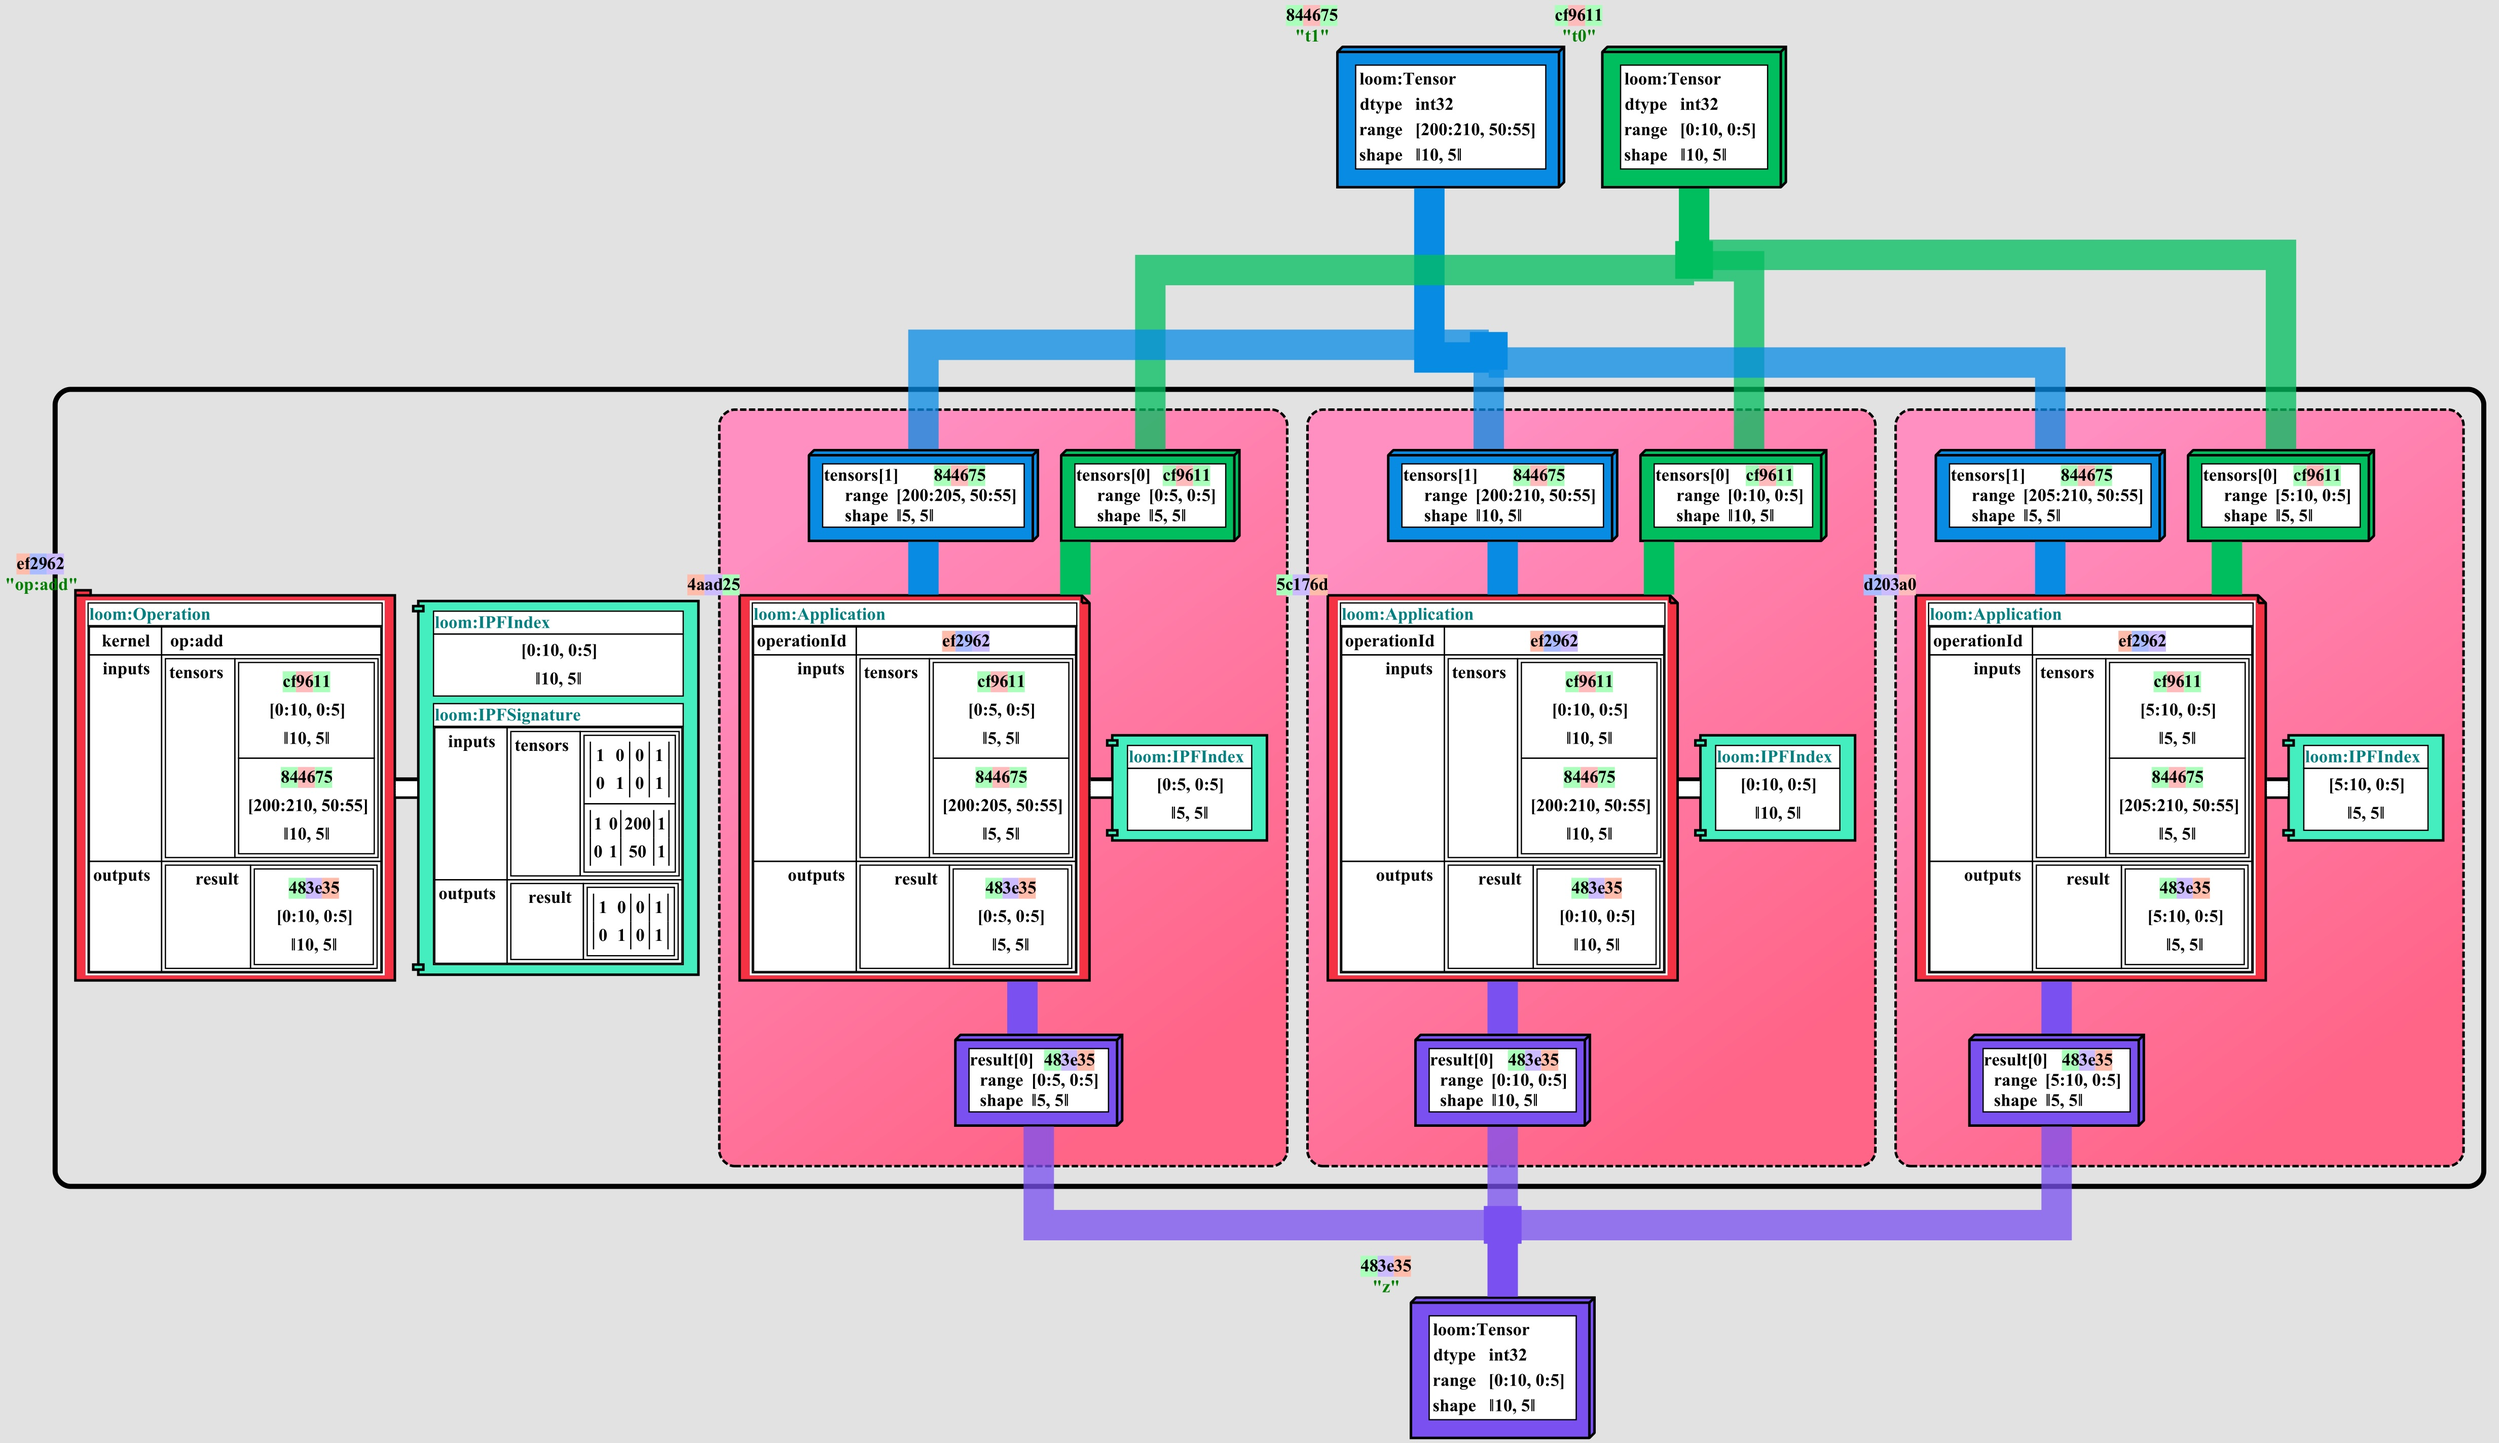
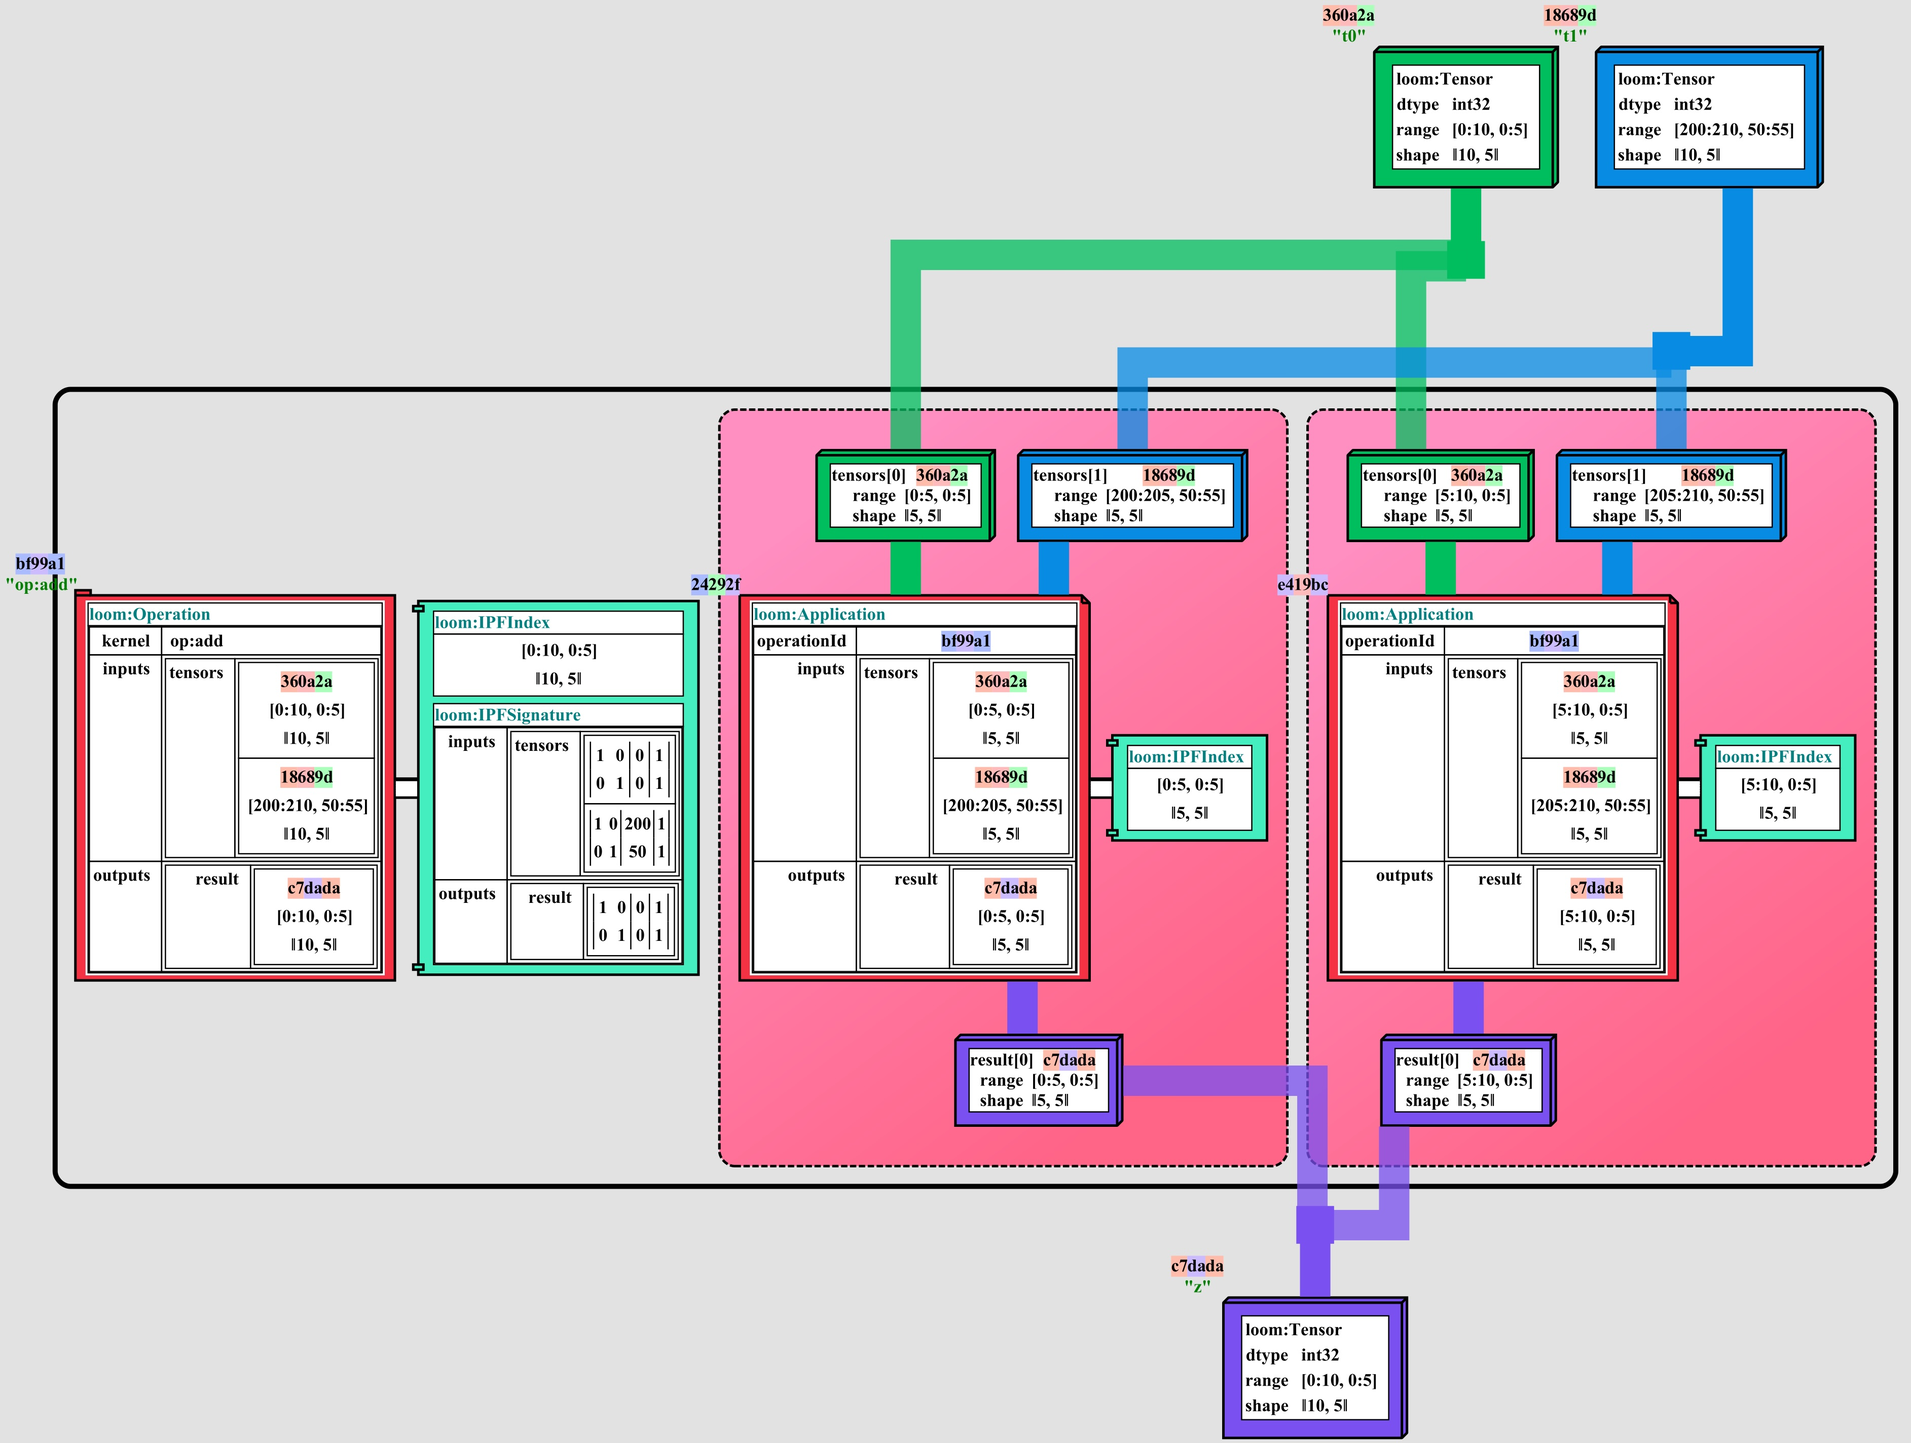
fix example bug.

diff --git a/tensortapestry-weft/src/test/java/org/tensortapestry/ScratchTest.java b/tensortapestry-weft/src/test/java/org/tensortapestry/ScratchTest.java
@@ -1,6 +1,7 @@
 package org.tensortapestry;
 
 import java.util.List;
+
 import org.junit.jupiter.api.Test;
 import org.tensortapestry.common.testing.CommonAssertions;
 import org.tensortapestry.loom.graph.dialects.tensorops.ApplicationExpressionDialect;
@@ -24,6 +25,8 @@ public class ScratchTest implements CommonAssertions {
 
     var op = CommonMetaKernels.ADD.on(graph).input("tensors", t0, t1).apply();
 
+    op.getApplicationNodes().stream().toList().forEach(graph::removeNode);
+
     var z = op.getResult().withLabel("z");
 
     OperationUtils.createIpfShards(
@@ -35,6 +38,8 @@ public class ScratchTest implements CommonAssertions {
     );
 
     var img = ApplicationExpressionDialect.toImage(graph);
+
+    graph.validate();
 
     System.out.println(graph.toPrettyJsonString());
   }

diff --git a/docs/dialects/ApplicationExpressionDialect.md b/docs/dialects/ApplicationExpressionDialect.md
@@ -72,46 +72,10 @@ must be total over the output tensor range.
 <summary>LoomGraph JSON</summary>
 
 ```json
-{
-  "id" : "a0dddda0-34e6-436c-a210-6b25705b271b",
+
+  "id" : "bdc87aaf-3716-419d-abfb-fe6e21bd6892",
   "nodes" : [ {
-    "id" : "aae819bc-7a32-43ba-a1b8-6959f0238ed2",
-    "type" : "http://tensortapestry.org/schemas/loom/2024-01/node_types.jsd#/nodes/Application",
-    "body" : {
-      "operationId" : "476a1cce-60f9-4919-a6b5-cb7e4a627197",
-      "inputs" : {
-        "tensors" : [ {
-          "tensorId" : "3009968e-ded2-412b-b35c-9b964ad4c171",
-          "range" : {
-            "start" : [ 0, 0 ],
-            "end" : [ 5, 5 ]
-          }
-        }, {
-          "tensorId" : "bacbfedc-f55b-4b34-ab03-b7cac4c00235",
-          "range" : {
-            "start" : [ 200, 50 ],
-            "end" : [ 205, 55 ]
-          }
-        } ]
-      },
-      "outputs" : {
-        "result" : [ {
-          "tensorId" : "3e1f8f84-ee99-4bd9-88cb-4c1862ace807",
-          "range" : {
-            "start" : [ 0, 0 ],
-            "end" : [ 5, 5 ]
-          }
-        } ]
-      }
-    },
-    "tags" : {
-      "http://tensortapestry.org/schemas/loom/2024-01/tag_types.jsd#/tags/IPFIndex" : {
-        "start" : [ 0, 0 ],
-        "end" : [ 5, 5 ]
-      }
-    }
-  }, {
-    "id" : "bacbfedc-f55b-4b34-ab03-b7cac4c00235",
+    "id" : "0308d788-0064-4494-9c18-6e4c3d078b13",
     "type" : "http://tensortapestry.org/schemas/loom/2024-01/node_types.jsd#/nodes/Tensor",
     "label" : "t1",
     "body" : {
@@ -122,66 +86,19 @@ must be total over the output tensor range.
       }
     }
   }, {
-    "id" : "2a551bc1-7ba0-4824-821a-752488b26c40",
+    "id" : "2524fb44-d169-4afd-90fa-09711462e4b3",
     "type" : "http://tensortapestry.org/schemas/loom/2024-01/node_types.jsd#/nodes/Application",
     "body" : {
-      "operationId" : "476a1cce-60f9-4919-a6b5-cb7e4a627197",
+      "operationId" : "26434d32-ccbc-442f-9d78-8bf158b00c6b",
       "inputs" : {
         "tensors" : [ {
-          "tensorId" : "3009968e-ded2-412b-b35c-9b964ad4c171",
-          "range" : {
-            "start" : [ 0, 0 ],
-            "end" : [ 10, 5 ]
-          }
-        }, {
-          "tensorId" : "bacbfedc-f55b-4b34-ab03-b7cac4c00235",
-          "range" : {
-            "start" : [ 200, 50 ],
-            "end" : [ 210, 55 ]
-          }
-        } ]
-      },
-      "outputs" : {
-        "result" : [ {
-          "tensorId" : "3e1f8f84-ee99-4bd9-88cb-4c1862ace807",
-          "range" : {
-            "start" : [ 0, 0 ],
-            "end" : [ 10, 5 ]
-          }
-        } ]
-      }
-    },
-    "tags" : {
-      "http://tensortapestry.org/schemas/loom/2024-01/tag_types.jsd#/tags/IPFIndex" : {
-        "start" : [ 0, 0 ],
-        "end" : [ 10, 5 ]
-      }
-    }
-  }, {
-    "id" : "3009968e-ded2-412b-b35c-9b964ad4c171",
-    "type" : "http://tensortapestry.org/schemas/loom/2024-01/node_types.jsd#/nodes/Tensor",
-    "label" : "t0",
-    "body" : {
-      "dtype" : "int32",
-      "range" : {
-        "start" : [ 0, 0 ],
-        "end" : [ 10, 5 ]
-      }
-    }
-  }, {
-    "id" : "3c39fe81-71d1-4f73-89d2-b74eda556312",
-    "type" : "http://tensortapestry.org/schemas/loom/2024-01/node_types.jsd#/nodes/Application",
-    "body" : {
-      "operationId" : "476a1cce-60f9-4919-a6b5-cb7e4a627197",
-      "inputs" : {
-        "tensors" : [ {
-          "tensorId" : "3009968e-ded2-412b-b35c-9b964ad4c171",
+          "tensorId" : "2fa3fe28-2d47-47b6-8767-27c7dadbb18c",
           "range" : {
             "start" : [ 5, 0 ],
             "end" : [ 10, 5 ]
           }
         }, {
-          "tensorId" : "bacbfedc-f55b-4b34-ab03-b7cac4c00235",
+          "tensorId" : "0308d788-0064-4494-9c18-6e4c3d078b13",
           "range" : {
             "start" : [ 205, 50 ],
             "end" : [ 210, 55 ]
@@ -190,7 +107,7 @@ must be total over the output tensor range.
       },
       "outputs" : {
         "result" : [ {
-          "tensorId" : "3e1f8f84-ee99-4bd9-88cb-4c1862ace807",
+          "tensorId" : "781dd44d-cf72-4533-a495-6ff66ba1689a",
           "range" : {
             "start" : [ 5, 0 ],
             "end" : [ 10, 5 ]
@@ -205,31 +122,20 @@ must be total over the output tensor range.
       }
     }
   }, {
-    "id" : "3e1f8f84-ee99-4bd9-88cb-4c1862ace807",
-    "type" : "http://tensortapestry.org/schemas/loom/2024-01/node_types.jsd#/nodes/Tensor",
-    "label" : "z",
-    "body" : {
-      "dtype" : "int32",
-      "range" : {
-        "start" : [ 0, 0 ],
-        "end" : [ 10, 5 ]
-      }
-    }
-  }, {
-    "id" : "476a1cce-60f9-4919-a6b5-cb7e4a627197",
+    "id" : "26434d32-ccbc-442f-9d78-8bf158b00c6b",
     "type" : "http://tensortapestry.org/schemas/loom/2024-01/node_types.jsd#/nodes/Operation",
     "label" : "op:add",
     "body" : {
       "kernel" : "op:add",
       "inputs" : {
         "tensors" : [ {
-          "tensorId" : "3009968e-ded2-412b-b35c-9b964ad4c171",
+          "tensorId" : "2fa3fe28-2d47-47b6-8767-27c7dadbb18c",
           "range" : {
             "start" : [ 0, 0 ],
             "end" : [ 10, 5 ]
           }
         }, {
-          "tensorId" : "bacbfedc-f55b-4b34-ab03-b7cac4c00235",
+          "tensorId" : "0308d788-0064-4494-9c18-6e4c3d078b13",
           "range" : {
             "start" : [ 200, 50 ],
             "end" : [ 210, 55 ]
@@ -238,7 +144,7 @@ must be total over the output tensor range.
       },
       "outputs" : {
         "result" : [ {
-          "tensorId" : "3e1f8f84-ee99-4bd9-88cb-4c1862ace807",
+          "tensorId" : "781dd44d-cf72-4533-a495-6ff66ba1689a",
           "range" : {
             "start" : [ 0, 0 ],
             "end" : [ 10, 5 ]
@@ -276,6 +182,64 @@ must be total over the output tensor range.
             "shape" : [ 1, 1 ]
           } ]
         }
+      }
+    }
+  }, {
+    "id" : "2af709e2-c792-4712-80cc-0624ee767115",
+    "type" : "http://tensortapestry.org/schemas/loom/2024-01/node_types.jsd#/nodes/Application",
+    "body" : {
+      "operationId" : "26434d32-ccbc-442f-9d78-8bf158b00c6b",
+      "inputs" : {
+        "tensors" : [ {
+          "tensorId" : "2fa3fe28-2d47-47b6-8767-27c7dadbb18c",
+          "range" : {
+            "start" : [ 0, 0 ],
+            "end" : [ 5, 5 ]
+          }
+        }, {
+          "tensorId" : "0308d788-0064-4494-9c18-6e4c3d078b13",
+          "range" : {
+            "start" : [ 200, 50 ],
+            "end" : [ 205, 55 ]
+          }
+        } ]
+      },
+      "outputs" : {
+        "result" : [ {
+          "tensorId" : "781dd44d-cf72-4533-a495-6ff66ba1689a",
+          "range" : {
+            "start" : [ 0, 0 ],
+            "end" : [ 5, 5 ]
+          }
+        } ]
+      }
+    },
+    "tags" : {
+      "http://tensortapestry.org/schemas/loom/2024-01/tag_types.jsd#/tags/IPFIndex" : {
+        "start" : [ 0, 0 ],
+        "end" : [ 5, 5 ]
+      }
+    }
+  }, {
+    "id" : "2fa3fe28-2d47-47b6-8767-27c7dadbb18c",
+    "type" : "http://tensortapestry.org/schemas/loom/2024-01/node_types.jsd#/nodes/Tensor",
+    "label" : "t0",
+    "body" : {
+      "dtype" : "int32",
+      "range" : {
+        "start" : [ 0, 0 ],
+        "end" : [ 10, 5 ]
+      }
+    }
+  }, {
+    "id" : "781dd44d-cf72-4533-a495-6ff66ba1689a",
+    "type" : "http://tensortapestry.org/schemas/loom/2024-01/node_types.jsd#/nodes/Tensor",
+    "label" : "z",
+    "body" : {
+      "dtype" : "int32",
+      "range" : {
+        "start" : [ 0, 0 ],
+        "end" : [ 10, 5 ]
       }
     }
   } ]
